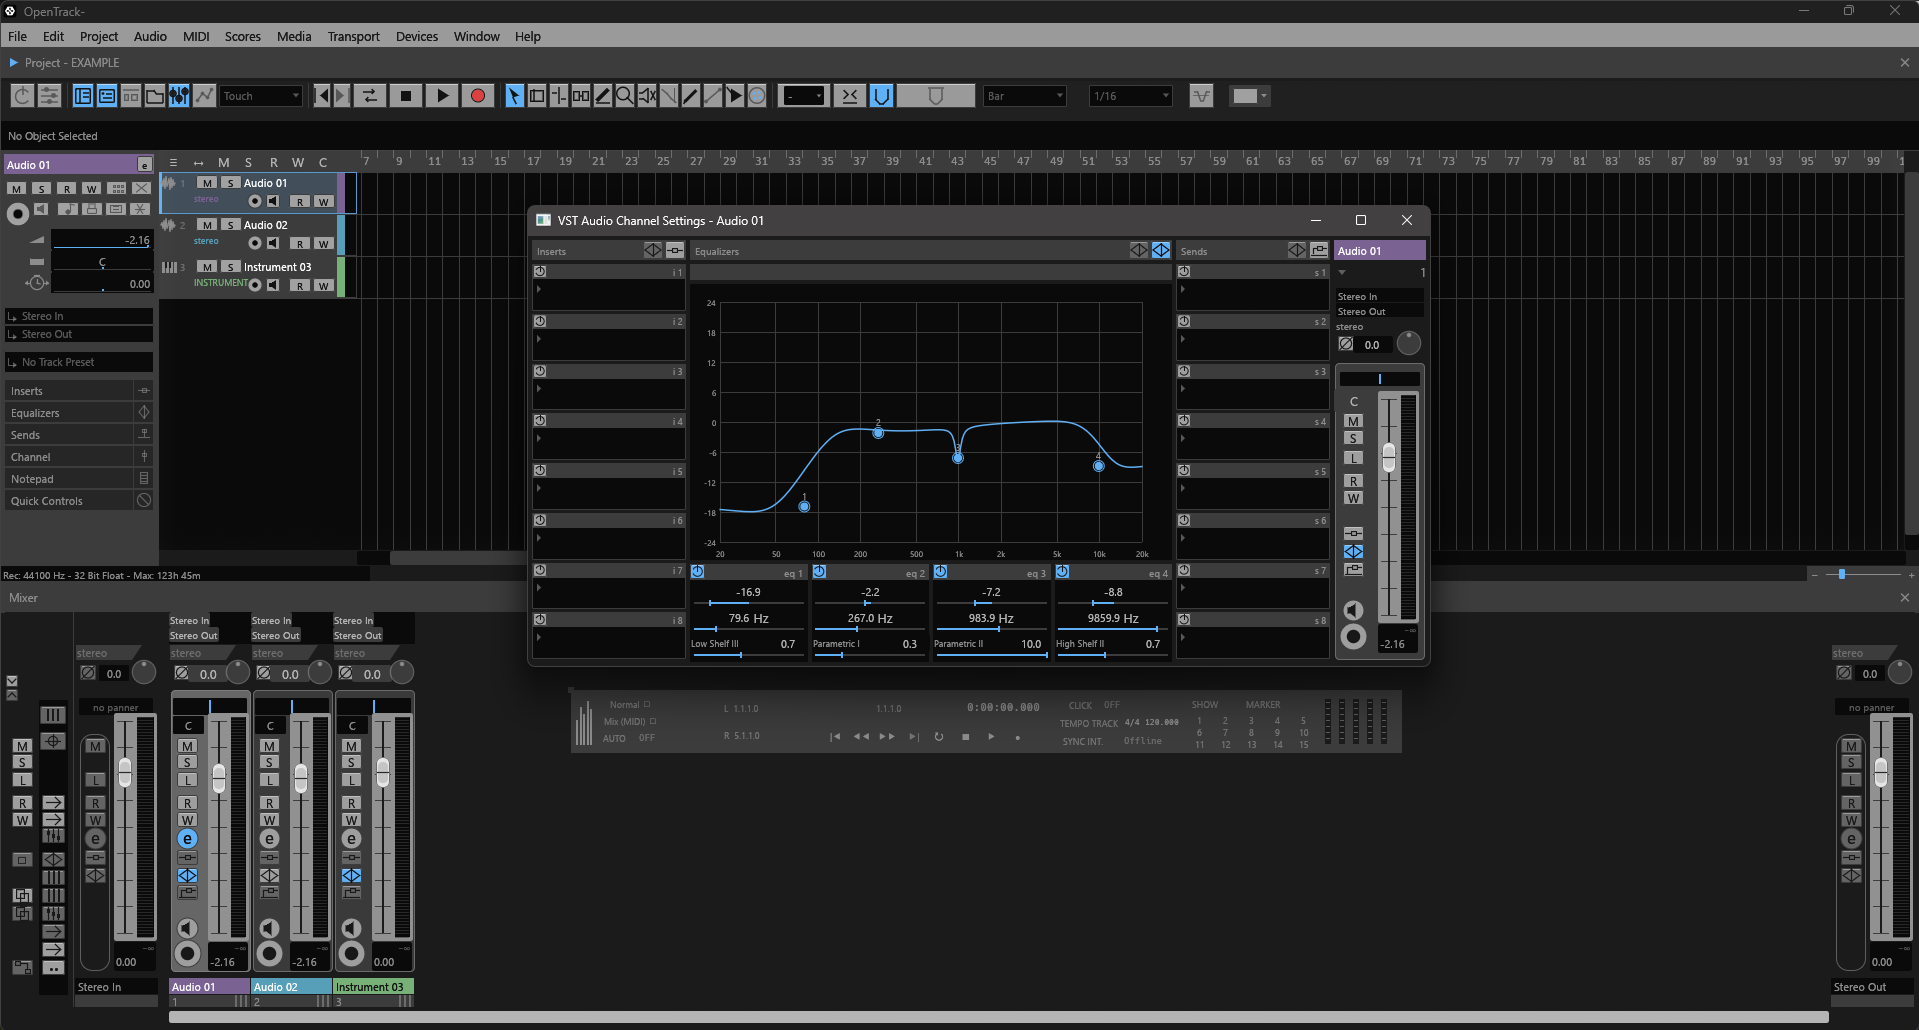
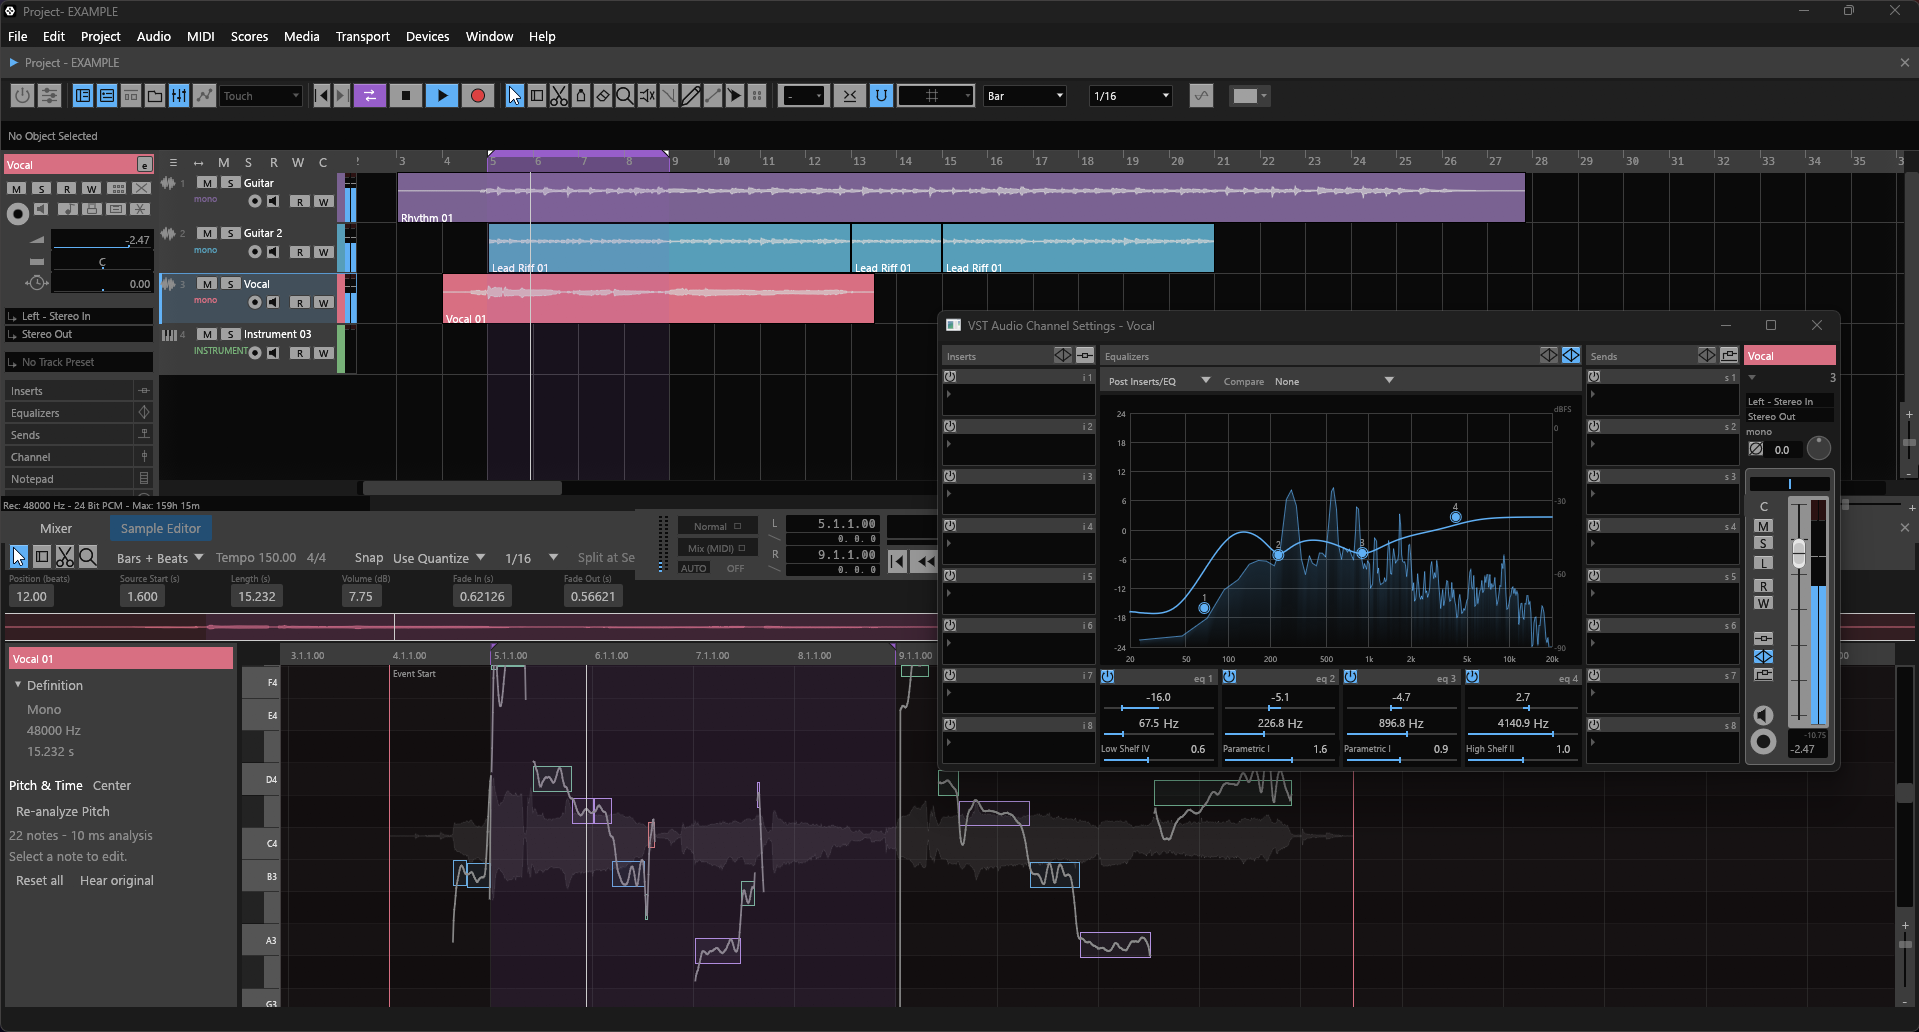
Refresh README screenshot with Sample Editor and Pitch & Time
Use the current build capture showing Project, Mixer, Sample Editor pitch notes, transport, and Channel Settings.

diff --git a/README.md b/README.md
@@ -2,7 +2,7 @@
 
 OpenTrack is a standalone open source DAW built in Rust. Its goal is to provide a dependable, expressive environment for recording, editing, arranging, mixing, and finishing music.
 
-![OpenTrack with the EXAMPLE project, Mixer, transport, and Channel Settings open](docs/images/opentrack-example.png)
+![OpenTrack with the EXAMPLE project, Project, Mixer, Sample Editor with Pitch & Time notes, transport, and Channel Settings open](docs/images/opentrack-example.png)
 
 *The current Windows development build displaying the EXAMPLE project.*
 
